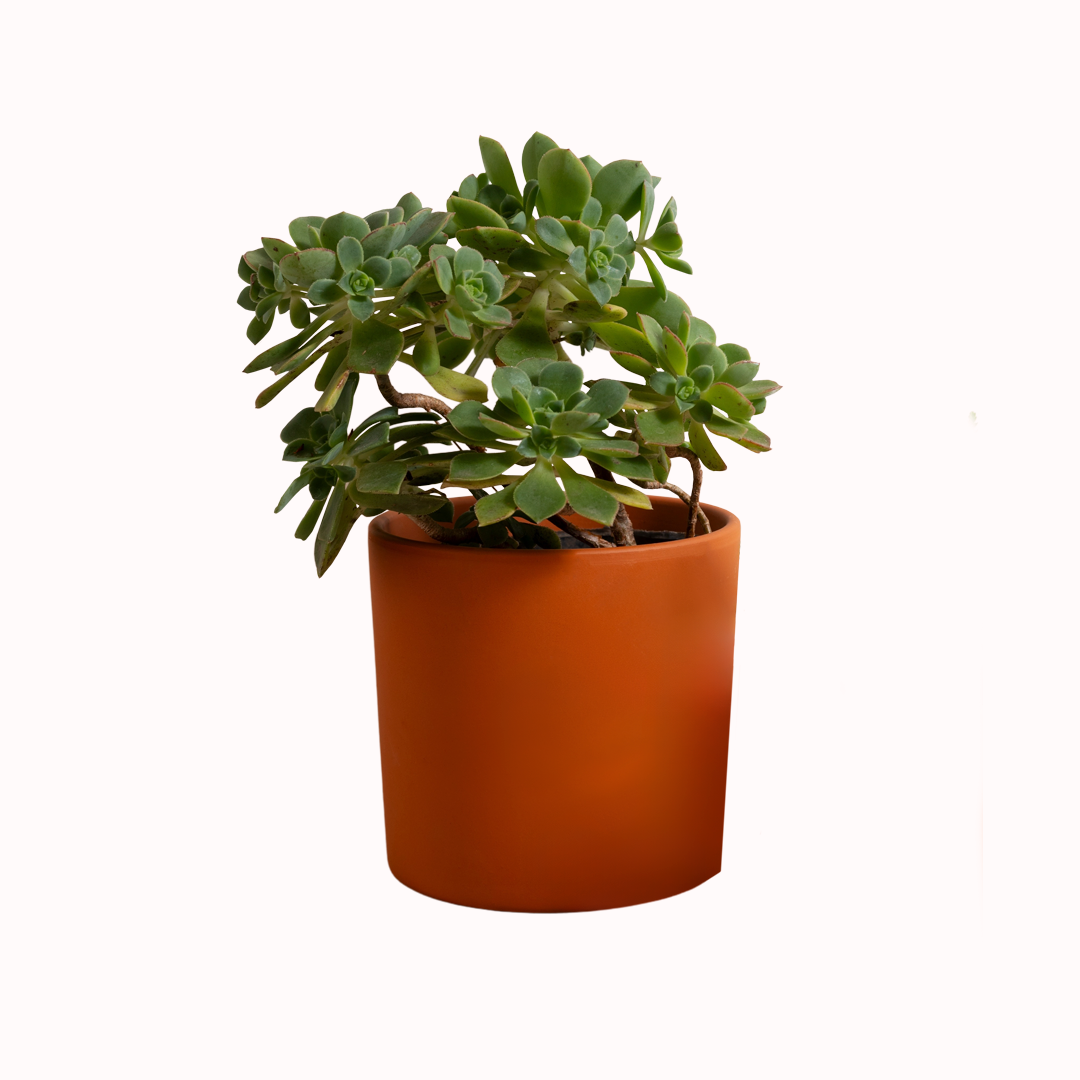
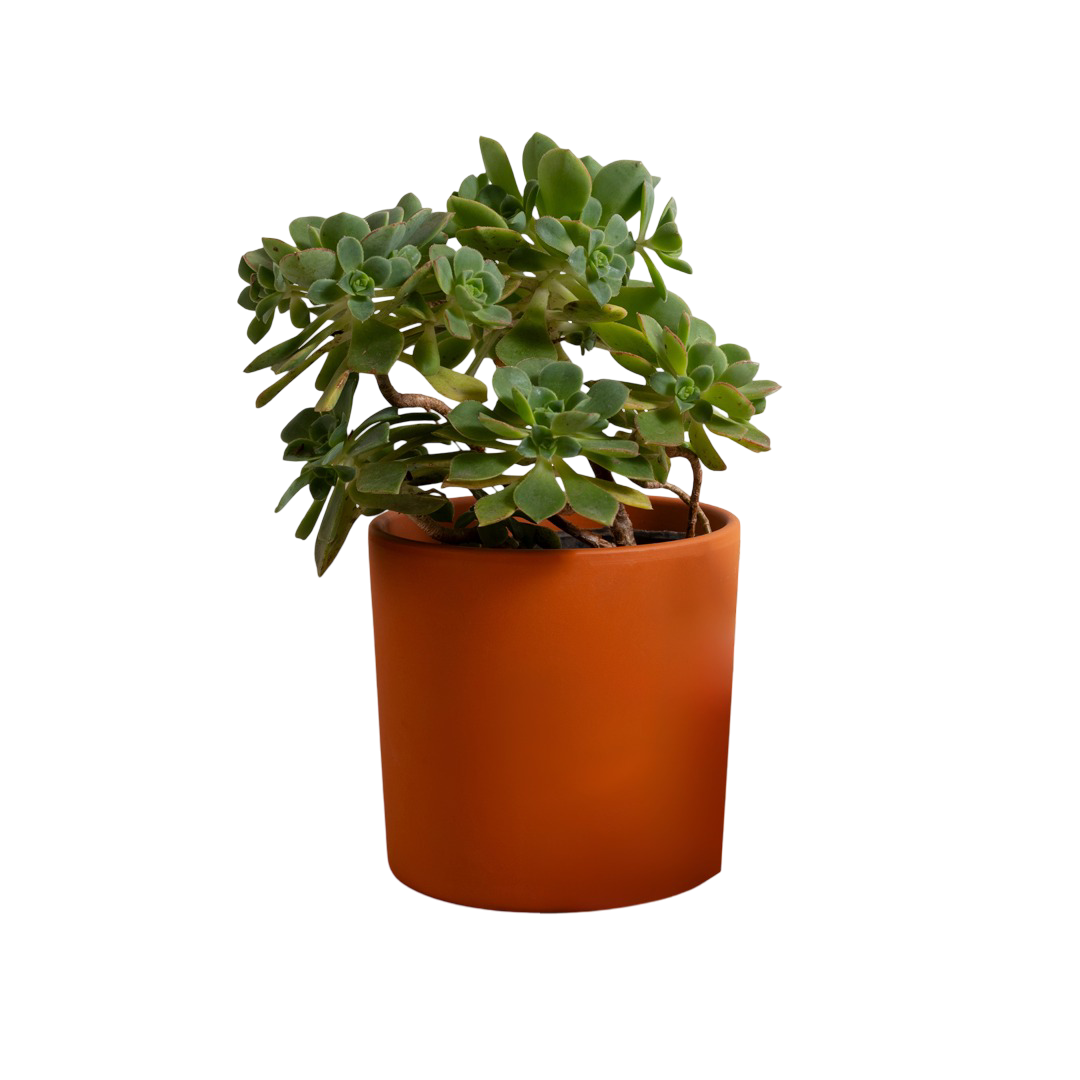
animação das imagens

diff --git a/produtos/produtos.html b/produtos/produtos.html
@@ -55,7 +55,11 @@
         <h1>Confira todos os produtos</h1>
         <div class="row gap-3">
             <div class="card p-0 col-11 col-md-5 col-lg-3 text-center shadow rounded-5">
-                <img class="w-300 rounded-5" src="/trabalho-tf-idweb2025/img/prod4.png" alt="">
+               <div class="especial">
+                <div class="imagem">
+                     <a href="/trabalho-tf-idweb2025/produtos/suculenta.html"><img class="w-300 rounded-5 img imagem_produto" src="/trabalho-tf-idweb2025/img/prod4.png" alt="uma planta chamada suculenta com varias folhas em um vaso de barro"></a>
+                </div>
+               </div>
                 <div class="card-body">
                     <h2 class="card-title">suculenta</h2>
                     <p class="card-text">planta já adulta</p>
@@ -64,7 +68,11 @@
                 </div>
             </div>
             <div class="card p-0 col-11 col-md-5 col-lg-3 text-center shadow rounded-5">
-                <img class=" rounded-5" src="/trabalho-tf-idweb2025/img/prod5.png" alt="">
+                <div class="especial">
+                    <div class="imagem">
+                        <a href="/trabalho-tf-idweb2025/produtos/espada_de_sao_jorge.html"><img class=" rounded-5 img imagem_produto" src="/trabalho-tf-idweb2025/img/prod5.png" alt="uma planta chada espada de são jorge,com três ramos em um vaso de barro"></a>
+                    </div>
+                </div>
                 <div class="card-body">
                     <h2 class="card-title">espada de são jorge</h2>
                     <p class="card-text">planta já adulta</p>
@@ -73,9 +81,13 @@
                 </div>
             </div>
             <div class="card p-0 col-11 col-md-5 col-lg-3 text-center shadow rounded-5">
-                <img class=" rounded-5" src="/trabalho-tf-idweb2025/img/prod3.png" alt="">
+                <div class="especial">
+                    <div class="imagem">
+                        <a href="/trabalho-tf-idweb2025/produtos/comigo_ninguem_pode.html"><img class=" rounded-5 img imagem_produto" src="/trabalho-tf-idweb2025/img/prod3.png" alt="uma planta chamada comigo niguém pode bem folhada em um barro de ceramica"></a>
+                    </div>
+                </div>
                 <div class="card-body">
-                    <h2 class="card-title">comigo ninguém pode</h2>
+                    <h2 class="card-title" style="font-size: 30px;">comigo ninguém pode</h2>
                     <p class="card-text">planta ja adulta</p>
                     <p>R$ 30,00</p>
                     <button class="btn btn-dark" type="button">Adicionar ao carrinho</button>

diff --git a/produtos/produtos.css b/produtos/produtos.css
@@ -31,3 +31,41 @@ a:hover {
     justify-content: center;
 }
 
+.img{
+    width: 200px;
+    height: 200px;
+    margin-left: -20px;
+}
+
+.especial{
+    width: 250px;
+    background: #FFFAFA;
+    border-radius: 20px;
+    padding: 20px;
+    text-align: center;
+    box-shadow: 0 0 10 #ccc;
+    transition: all 0.3s ease;
+    overflow: visible;
+    position: relative;
+    z-index: 1;
+}
+
+.imagem{
+    perspective: 1000px;
+    overflow: visible;
+    border-radius: 12px;
+}
+
+.imagem_produto{
+    width: 100%;
+    transition: transform 0.5s ease;
+    transform-style: preserve-3d;
+    will-change: transform;
+    z-index: 10;
+    position: relative;
+}
+
+.especial:hover .imagem_produto {
+    transform: translateY(-20px) rotateX(10deg) scale(1.05);
+}
+

diff --git a/Home/index.html b/Home/index.html
@@ -8,6 +8,7 @@
     <link href="https://cdn.jsdelivr.net/npm/bootstrap@5.3.6/dist/css/bootstrap.min.css" rel="stylesheet"
         integrity="sha384-4Q6Gf2aSP4eDXB8Miphtr37CMZZQ5oXLH2yaXMJ2w8e2ZtHTl7GptT4jmndRuHDT" crossorigin="anonymous">
     <link rel="stylesheet" href="style.css">
+    <link rel="stylesheet" href="/trabalho-tf-idweb2025/script/script.js">
 </head>
 
 <body>
@@ -45,6 +46,7 @@
                         <button class="btn btn-outline-success rounded-5" type="submit"><a class="nav-link"
                                 href="/produtos/produtos.html">Pesquisar</a></button>
                     </form>
+                    </div>
                 </div>
             </div>
         </nav>

diff --git a/carrinho/carrinho.html b/carrinho/carrinho.html
@@ -8,6 +8,7 @@
     <link href="https://cdn.jsdelivr.net/npm/bootstrap@5.3.6/dist/css/bootstrap.min.css" rel="stylesheet"
         integrity="sha384-4Q6Gf2aSP4eDXB8Miphtr37CMZZQ5oXLH2yaXMJ2w8e2ZtHTl7GptT4jmndRuHDT" crossorigin="anonymous">
     <link rel="stylesheet" href="carrinho.css">
+    <link rel="stylesheet" href="/trabalho-tf-idweb2025/script/script.js">
 </head>
 
 <body>
